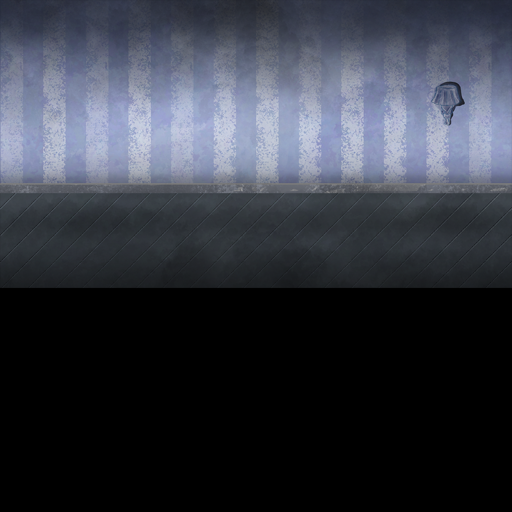
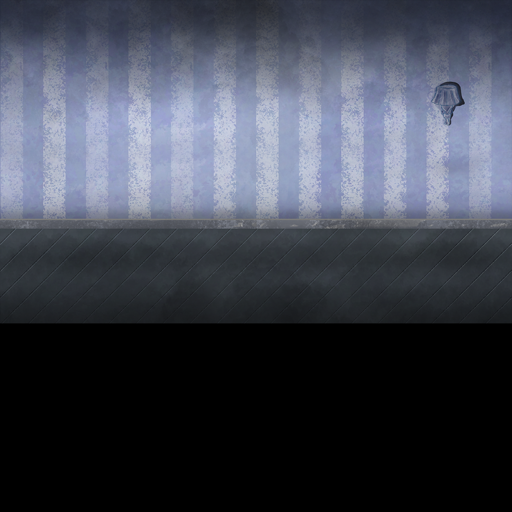
background fix player position fix

Changed region(s): [[0.0, 0.3125, 1.0, 0.4688], [0.0, 0.5312, 1.0, 0.6562]]

diff --git a/sources-sparrow/PeeQuest/PeeQuest/PQPlayerController.m b/sources-sparrow/PeeQuest/PeeQuest/PQPlayerController.m
@@ -56,12 +56,12 @@
 -(void)show:(SPSprite *)container
 {
     _view.x = 123;
-    _view.y = 150;
+    _view.y = 190;
     
     _shadow_view.x = 130;
-    _shadow_view.y = 42;
+    _shadow_view.y = 50;
     
-    _shadow_view.scaleX = _shadow_view.scaleY = 1.5;
+    _shadow_view.scaleX = _shadow_view.scaleY = 1.7;
     
     [container addChild:_shadow_view];
     [container addChild:_view];
